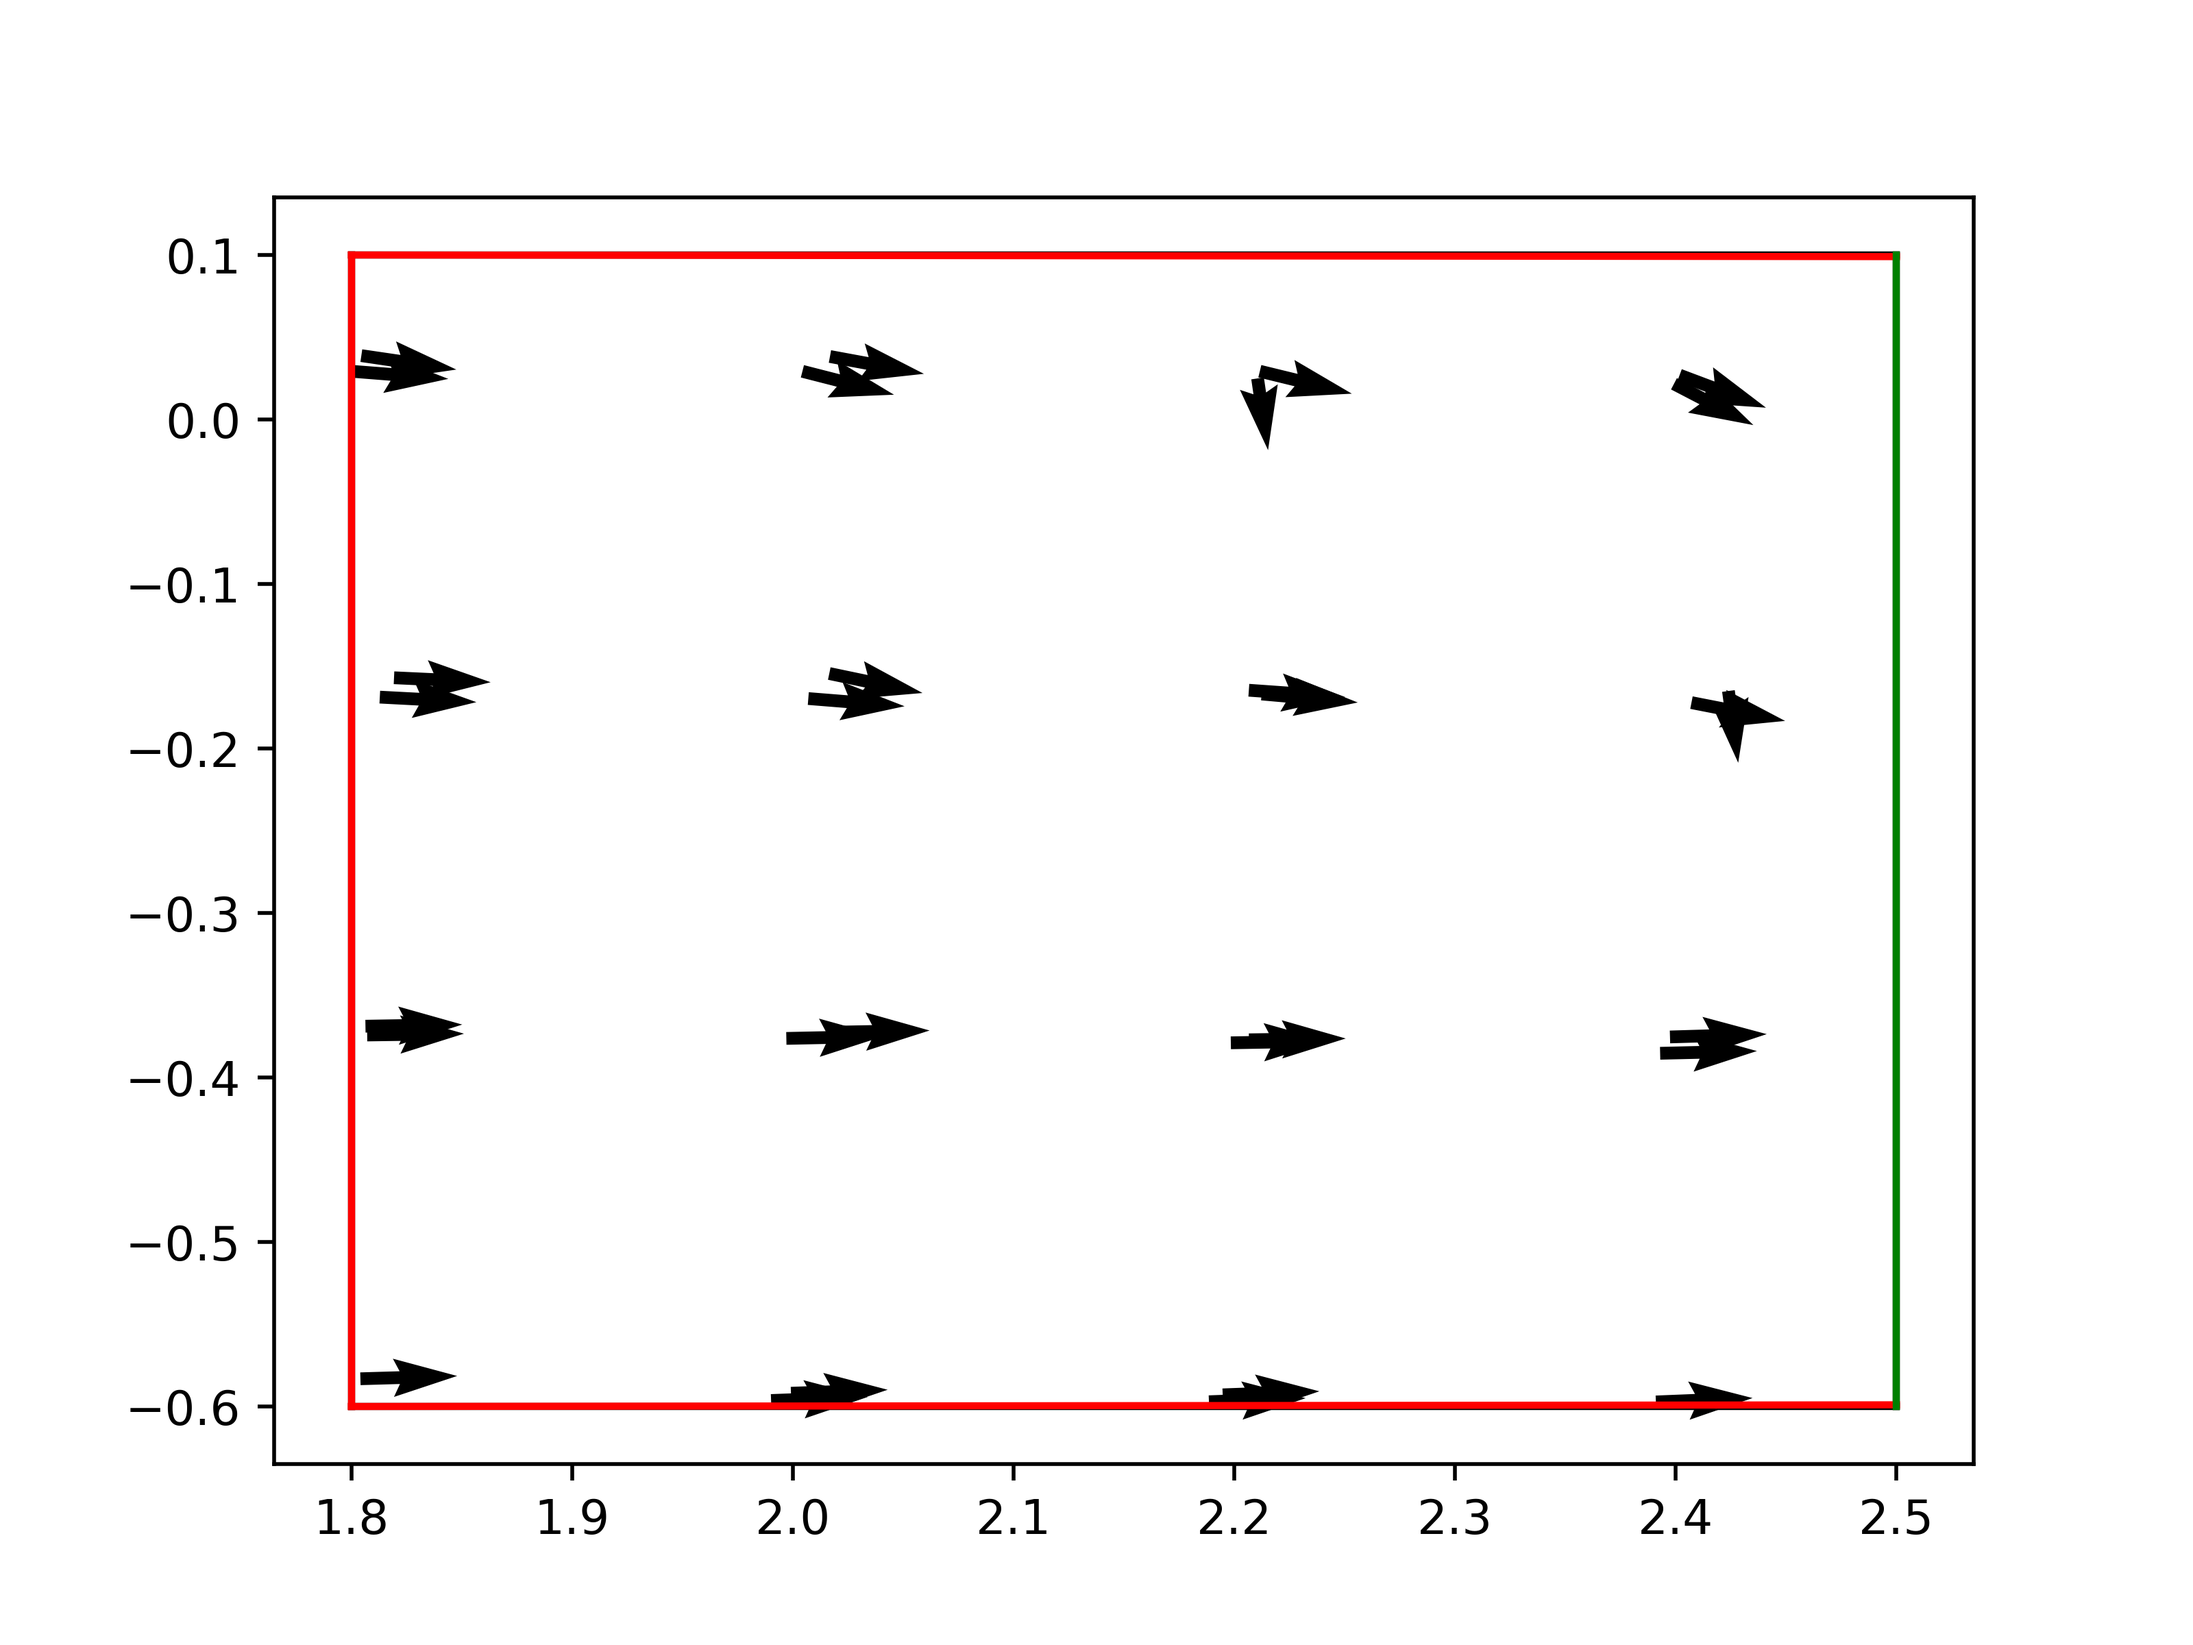
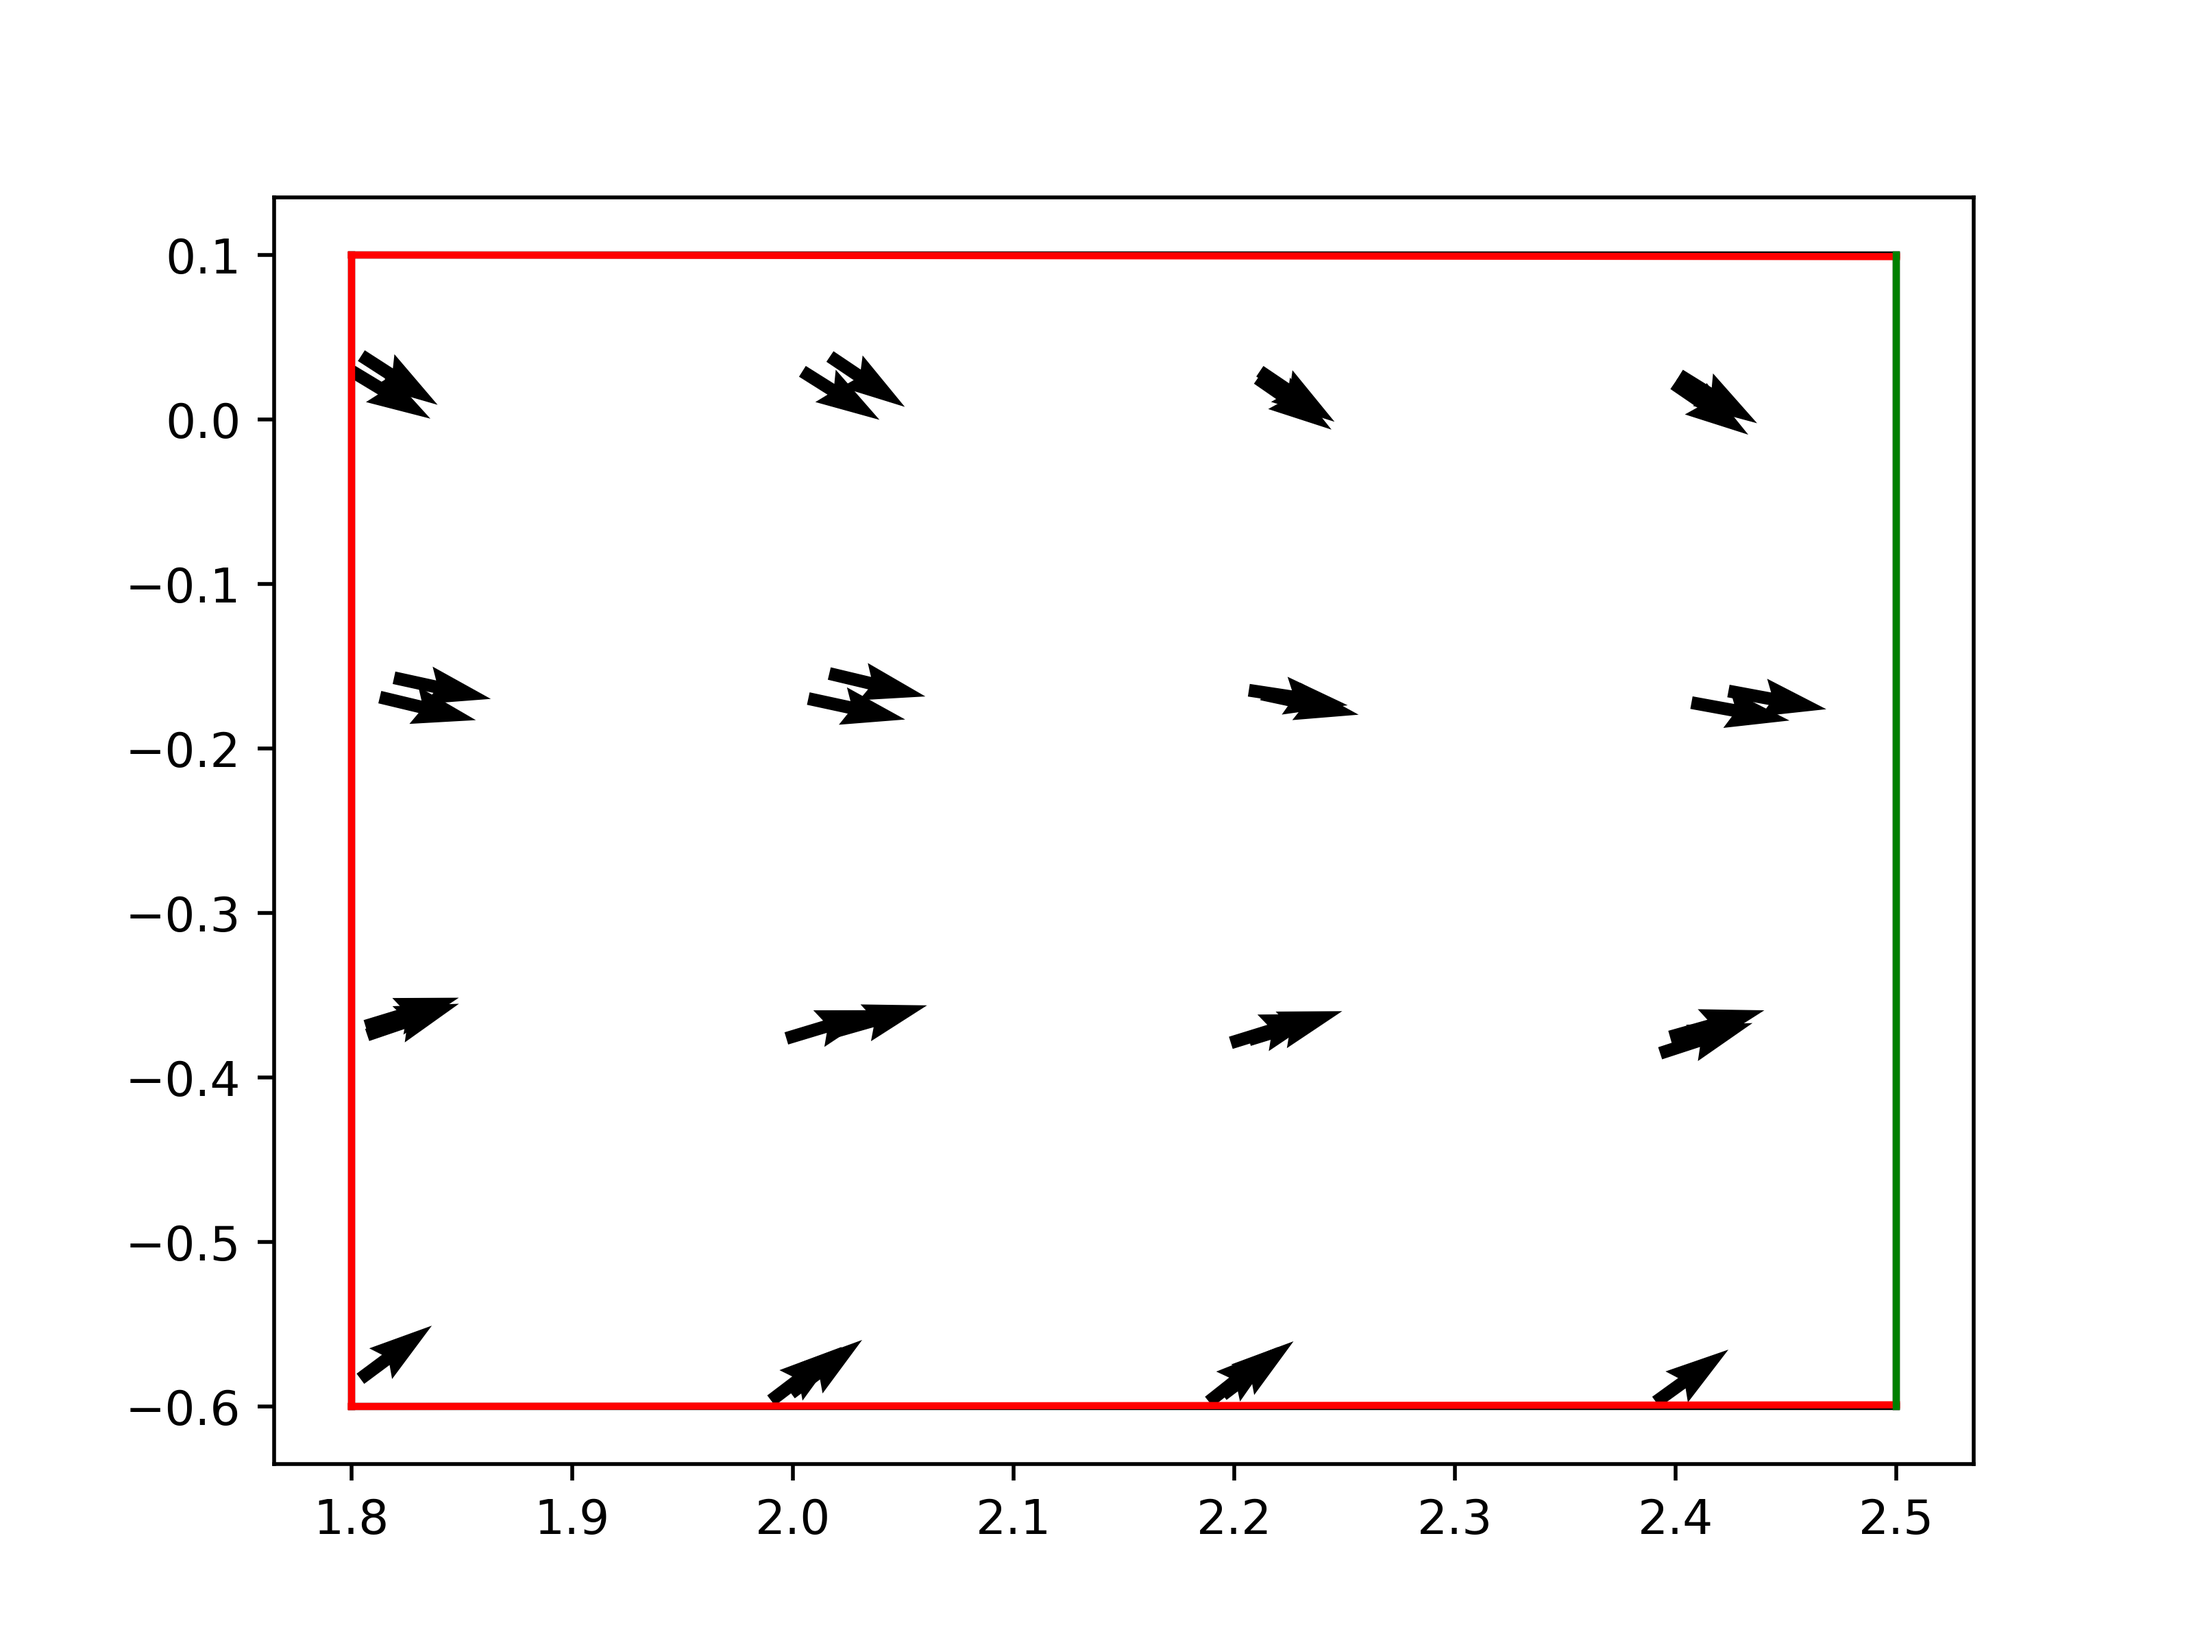
update the controller for cell4 "

diff --git a/gen_controller.py b/gen_controller.py
@@ -603,7 +603,7 @@ class Control_cal():
     def get_K(self,cbf_lb= 0, clf_lb = 0): 
         print('wh', )
         wh = 10**2
-        wv =10**-2
+        wv =10**-1
         print('wh', wh)
         # nx,ny = self.gs[0],self.gs[1]
         
@@ -987,7 +987,7 @@ if __name__ == '__main__':
     A = np.zeros((2,2))
     B = np.eye((2))
     measurement_mode = 'neural_lidar'
-    i_cell = 11
+    i_cell = 4
     directory_mat = 'cells_kernels/c'+str(i_cell)+'/deg'
     # directory_save =  'cells_controllers/c'+str(i_cell)+'/deg'
     if measurement_mode == 'vae':
@@ -999,5 +999,5 @@ if __name__ == '__main__':
     directory_save = directory_save+'/c'+str(i_cell)+'/deg'
     print("###############################cell", str(i_cell))
     ###Working parameters
-    gen_controller_all_orinetation(cell_ls[i_cell], directory_mat, directory_save, ch =1*10**-3, cv=1*10**-4, eps = 10**-2, sigma_max = 10**-6, dt = 0.001, measurement_mode = measurement_mode )
+    gen_controller_all_orinetation(cell_ls[i_cell], directory_mat, directory_save, ch =1*10**-1, cv=1*10**-4, eps = 10**-2, sigma_max = 10**-6, dt = 0.001, measurement_mode = measurement_mode )
     # gen_controller_all_orinetation(cell_ls[i_cell], directory_mat, directory_save, ch= 5*10**5, cv=1*10**-2, eps = 10**-1, sigma_max = 10**-6, dt = 0.001, measurement_mode = measurement_mode )
